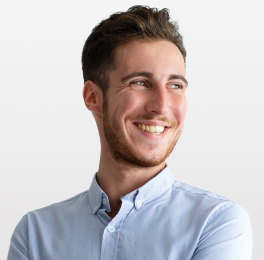
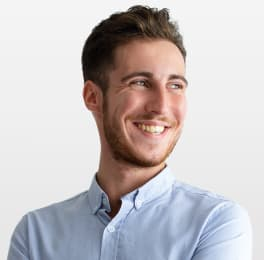
homework6

diff --git a/index.html b/index.html
@@ -60,13 +60,6 @@
             </li>
           </ul>
         </address>
-        <!-- <div class="mobile-open-modal">
-          <button href="#" class="open-modal-btn">
-            <svg class="open-modal icon" width="24" height="24">
-              <use href="./images/icons.svg#icon-heroicons-solid_menu"></use>
-            </svg>
-          </button>
-        </div> -->
       </div>
     </header>
     <main>
@@ -154,7 +147,8 @@
             <ul class="team-list">
               <li class="team-item">
                 <img
-                  src="./images/img1.jpg"
+                  srcset="./images/img.jpg 1x, ./images/img@2x.jpg 2x"
+                  src="./images/img.jpg"
                   alt="Mark Guerrero"
                   width="264"
                   height="260"
@@ -196,6 +190,7 @@
               </li>
               <li class="team-item">
                 <img
+                  srcset="./images/img2.jpg 1x, ./images/img2@2x.jpg 2x"
                   src="./images/img2.jpg"
                   alt="Tom Ford"
                   width="264"
@@ -238,6 +233,7 @@
               </li>
               <li class="team-item">
                 <img
+                  srcset="./images/img3.jpg 1x, ./images/img3@2x.jpg 2x"
                   src="./images/img3.jpg"
                   alt="Camila Garcia"
                   width="264"
@@ -280,6 +276,7 @@
               </li>
               <li class="team-item">
                 <img
+                  srcset="./images/img4.jpg 1x, ./images/img4@2x.jpg 2x"
                   src="./images/img4.jpg"
                   alt="Daniel Wilson"
                   width="264"

diff --git a/css/media.css b/css/media.css
@@ -19,6 +19,18 @@
         margin-left: auto;
         margin-right: auto;
     }
+
+    .main-wrapper {
+        background-image: linear-gradient(to bottom, var(--grey), var(--grey)),
+            url(../images/dark-bg_mob.jpg);
+    }
+}
+
+@media only screen and (min-width: 320px) and (min-resolution: 192dpi) {
+    .main-wrapper {
+        background-image: linear-gradient(to bottom, var(--grey), var(--grey)),
+            url(../images/dark-bg_mob@2x.jpg);
+    }
 }
 
 @media only screen and (max-width:767.98px) {
@@ -48,6 +60,8 @@
 
     .main-wrapper {
         padding: 112px 0 112px;
+        background-image: linear-gradient(to bottom, var(--grey), var(--grey)),
+            url(../images/dark-bg_tab.jpg);
     }
 
     .header-inner {
@@ -111,6 +125,7 @@
         display: flex;
         flex-wrap: wrap;
         align-items: center;
+        justify-content: center;
     }
 
     .footer_first-block {
@@ -158,6 +173,8 @@
 
     .main-wrapper {
         padding: 188px 0 188px;
+        background-image: linear-gradient(to bottom, var(--grey), var(--grey)),
+            url(../images/dark-bg_laptop.jpg);
     }
 
     .main-title {
